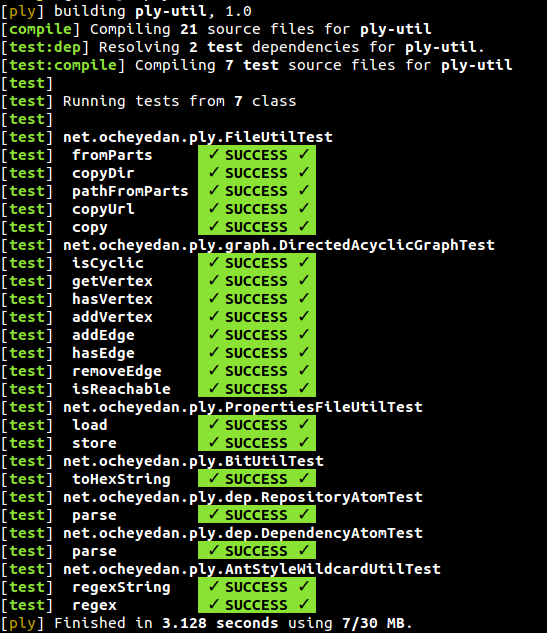
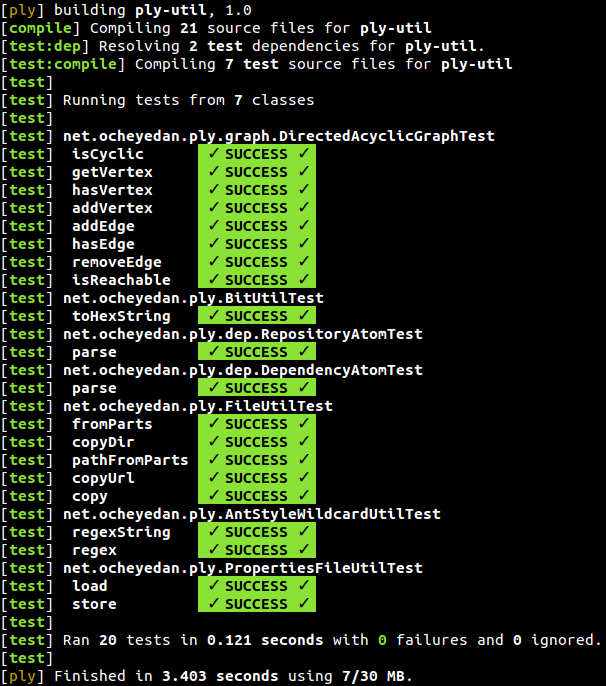
* Test printout was not including 'es' for multiple test classes run. * Updated documentation (bolded features titles)

diff --git a/java-scripts/ply-test-junit/src/main/java/net/ocheyedan/ply/script/Junit4RunListener.java b/java-scripts/ply-test-junit/src/main/java/net/ocheyedan/ply/script/Junit4RunListener.java
@@ -35,7 +35,7 @@ public class Junit4RunListener extends RunListener {
             // ignore...means no-tests or something, process during failure
         } else {
             int size = description.getChildren().size();
-            PrivilegedOutput.print("\nRunning tests from ^b^%d^r^ class\n", size, (size != 1 ? "es" : ""));
+            PrivilegedOutput.print("\nRunning tests from ^b^%d^r^ class%s\n", size, (size != 1 ? "es" : ""));
         }
     }
 

diff --git a/README.md b/README.md
@@ -17,10 +17,12 @@ To enable a directory/project to use ply, simply run init from within the direct
 Features
 --------
 
-* Pretty print - _ply_'s output is clean and colored.  Here's the actual output of running `ply clean test` from the `ply-util` module:
+* __Pretty print__ - _ply_'s output is clean and colored.  Here's the actual output of running `ply clean test` from the `ply-util` module:
+
 ![ply-util: ply clean test](https://github.com/blangel/ply/raw/master/docs/imgs/ply-util-test.png "ply-util: ply clean test")
-* Sensible defaults - _ply_ uses defaults which are intuitive (i.e., the default _java_ source/target for compilation is the version of the `$JAVA_HOME` jdk) and make setting up a new project extremely easy. 
-* Easily extensible - since _ply_ simply executes scripts (or aliases of scripts; i.e., _clean_, _install_, _test_) changing or augmenting a build lifecycle is just a matter of adding/removing/replacing scripts (or re-aliasing them).  The default scripts and aliases provided specify a best practice for development but if your project wants/needs to deviate from this approach doing so shouldn't feel like working against the grain.  And keep in mind, [scripts](ply/tree/master/docs/Scripts.md) are anything executable (bash, perl, ruby, python, ...) so even though your project's written in one language feel free to flex your polyglot-side and augment your build process in any way you like! 
+
+* __Sensible defaults__ - _ply_ uses defaults which are intuitive (i.e., the default _java_ source/target for compilation is the version of the `$JAVA_HOME` jdk) and make setting up a new project extremely easy. 
+* __Easily extensible__ - since _ply_ simply executes scripts (or aliases of scripts; i.e., _clean_, _install_, _test_) changing or augmenting a build lifecycle is just a matter of adding/removing/replacing scripts (or re-aliasing them).  The default scripts and aliases provided specify a best practice for development but if your project wants/needs to deviate from this approach doing so shouldn't feel like working against the grain.  And keep in mind, [scripts](ply/tree/master/docs/Scripts.md) are anything executable (bash, perl, ruby, python, ...) so even though your project's written in one language feel free to flex your polyglot-muscles and augment your build process in any language you like! 
 
 Download/Install
 ----------------
